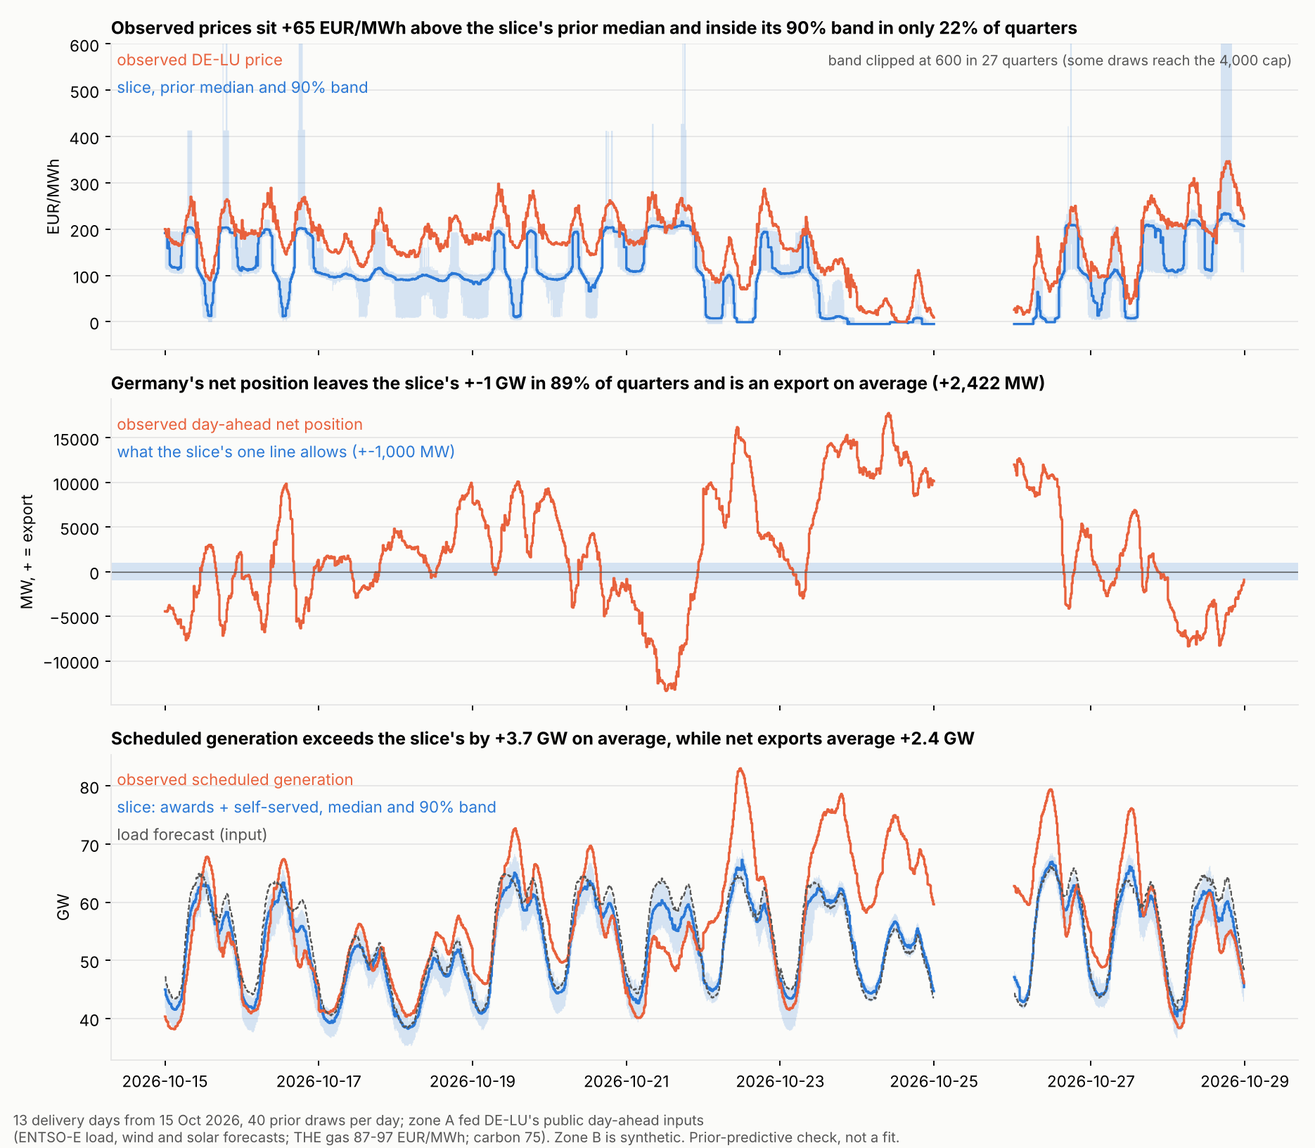
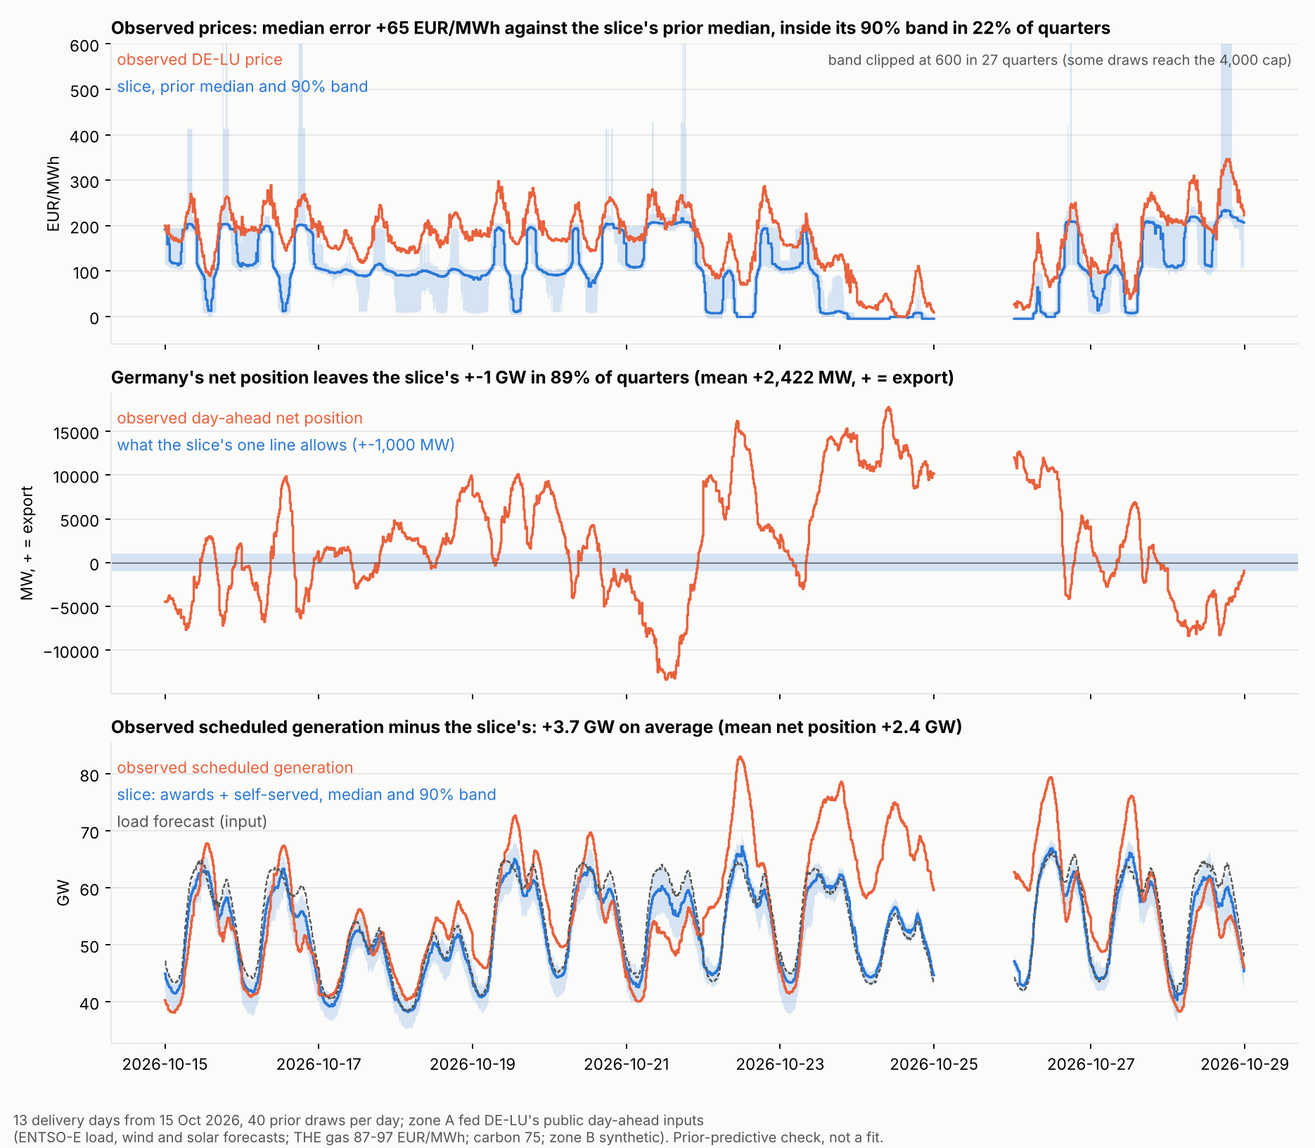
Research: zone A from data before the window, conditional on the observed net position; two windows
Fixing Germany's net position removes the false scarcity and the public quantities reconcile (generation =
load + net position within 0.5 GW). With the fleet from unit data and real carbon prices, October improves
(inside the band 55%, 77% with an output-based fleet chosen on it); June, the out-of-window test, sits at
48% with a level error of +8 to +12 and a wrong daily shape (flat evenings, too high at midday).

Claude-Session: https://claude.ai/code/session_01GE4eU3GGTHse8pJmFKF6AB

diff --git a/research/coupled-auction/hist_window.py b/research/coupled-auction/hist_window.py
@@ -20,8 +20,34 @@ SP, OUT = Path(sys.argv[1]), Path(sys.argv[2]); DRAWS = int(os.environ.get("DRAW
 # coal cut towards what ran at most in the window (12.6 and 4.5 GW): 13 and 5 GW nominal (coal less the slice's 1 GW planned
 # outage = 4 GW) instead of 18 and 12; the output file names carry the tag
 ABLATE = [a for a in os.environ.get("ABLATE", "").split(",") if a]; TAG = ("_" + "_".join(ABLATE)) if ABLATE else ""
+# Data-based switches (notes 21.162), each opt-in and named in the output tag:
+#   FLEET=<de_fleet.py json>  zone A's lignite, coal and gas from unit data before the window, "other" 10 GW (recon p99 9.9),
+#                             published outages per fuel and quarter, pumped storage 6.5 GW / 40 GWh
+#   COSTS=1                   carbon = last daily EUA before noon the day before; coal price drawn ~ lognormal(log 12, 0.25)
+#                             per draw (no coal series); flexible demand's willingness to pay scaled with the gas-fired cost
+#   COND=1                    conditional check: the line set to 0 and zone A's OBSERVED day-ahead net position entered as a
+#                             price-taking order (an auction outcome, not an issue-time input)
+FLEET = json.load(open(os.environ["FLEET"])) if os.environ.get("FLEET") else None
+COSTS, COND = os.environ.get("COSTS") == "1", os.environ.get("COND") == "1"
+TAG += ("_datafleet" if FLEET else "") + ("_costs" if COSTS else "") + ("_cond" if COND else "") + os.environ.get("SUFFIX", "")
+TECH = {z: dict(v) for z, v in V.TECH.items()}
 if "fleet" in ABLATE:
-    V.TECH["A"]["lignite"] = (13000,) + V.TECH["A"]["lignite"][1:]; V.TECH["A"]["coal"] = (5000,) + V.TECH["A"]["coal"][1:]
+    TECH["A"]["lignite"] = (13000,) + TECH["A"]["lignite"][1:]; TECH["A"]["coal"] = (5000,) + TECH["A"]["coal"][1:]
+# FLEETMODE=output (with FLEET): lignite, coal and "other" sized from their 99th percentile of hourly output in the 3 months
+# before the window (energy-charts by fuel, out/recon_hourly.parquet), divided by 0.84 = the prior's mean offered share x
+# (1 - forced outage share), so that their expected offer equals that percentile; their published outages are then not
+# subtracted again. Gas keeps the unit fleet: it is usually at the margin, so its output measures demand, not capacity.
+FLEETMODE = os.environ.get("FLEETMODE", "units")
+if FLEET:
+    for k in ("lignite", "coal", "gas"): TECH["A"][k] = (FLEET["fleet"][k]["fleet_MW"],) + TECH["A"][k][1:]
+    TECH["A"]["other"] = (10000.0,) + TECH["A"]["other"][1:]
+    if FLEETMODE == "output":
+        Xr = pd.read_parquet(SP / "out/recon_hourly.parquet"); f0 = pd.Timestamp(os.environ.get("FIRST", "2026-10-15"), tz="UTC")
+        W = Xr[(Xr.index >= f0 - pd.DateOffset(months=3)) & (Xr.index < f0)]
+        for k, col in (("lignite", "lig"), ("coal", "coal"), ("other", "other")): TECH["A"][k] = (float(W[col].quantile(0.99)) * 1000 / 0.84,) + TECH["A"][k][1:]
+        TAG += "_output"
+STORE = {z: dict(v) for z, v in V.STORAGE.items()}
+if FLEET: STORE["A"] = dict(P=6500.0, E=40000.0, soc0=20000.0, eta=0.75)
 DAYS = pd.date_range(os.environ.get("FIRST", "2026-10-15"), periods=int(os.environ.get("NDAYS", 14)), freq="D", tz=TZ)
 
 def series(name, col):
@@ -33,29 +59,38 @@ def store(name, key, scale=1.0):
 
 load, ws = series("load", "Forecasted Load"), pd.concat([pd.read_parquet(f) for f in sorted((SP / "entsoe/da").glob("ws_*.parquet"))])
 ws = ws[~ws.index.duplicated()]; netpos, gen = series("netpos", "netpos"), series("gen", "gen")
+eua = pd.read_parquet(SP / "out/eua_daily.parquet")["eua"].sort_index()
 price, gas = store("prices_v3_DE_LU", "price", 10.0), store("gasprices_the_v1_DE_LU", "gasprice")      # stored in ct/kWh; THE gas in EUR/MWh
 
 def day_inputs(d):
     idx = pd.date_range(d, (d + pd.DateOffset(days=1)).normalize(), freq="15min", inclusive="left")   # a calendar day: 92 or 100 quarters at a clock change
     if len(idx) != V.T: return None, idx             # clock-change days have 92 or 100 quarters; the slice has 96
-    info = V.Info(); info.co2 = 75.0
+    info = V.Info(); info.co2 = 75.0; info.tech = TECH; info.storage = STORE
+    if FLEET:
+        o = FLEET["days"].get(str(d.date()))
+        info.outages = {"A": {k: np.asarray(v) for k, v in o.items() if FLEETMODE != "output" or k == "gas"} if o else {}, "B": {}}
+    if COSTS:
+        info.co2 = float(eua[:(d - pd.Timedelta(hours=12)).tz_localize(None)].iloc[-1]); info.wtp_scales_with_gas = True
+    if COND:
+        info.atc = 0.0; info.fixed_netpos = {"A": netpos.reindex(idx).to_numpy(float)}
     g = gas[:d - pd.Timedelta(hours=12)]; info.gas = float(g.iloc[-1])      # last stored value dated before noon the day before
     info.load = {"A": load.reindex(idx).to_numpy(float), "B": V.Info().load["B"]}
-    info.wind_cf = {"A": np.clip((ws["Wind Onshore"] + ws["Wind Offshore"]).reindex(idx).to_numpy(float) / V.TECH["A"]["wind"][0], 0, 1), "B": V.Info().wind_cf["B"]}
-    info.solar_cf = {"A": np.clip(ws["Solar"].reindex(idx).to_numpy(float) / V.TECH["A"]["solar"][0], 0, 1)}
+    info.wind_cf = {"A": np.clip((ws["Wind Onshore"] + ws["Wind Offshore"]).reindex(idx).to_numpy(float) / TECH["A"]["wind"][0], 0, 1), "B": V.Info().wind_cf["B"]}
+    info.solar_cf = {"A": np.clip(ws["Solar"].reindex(idx).to_numpy(float) / TECH["A"]["solar"][0], 0, 1)}
     return info, idx
 
 def run(args):
     k, d = args; info, idx = day_inputs(d)
     rng = np.random.default_rng(3_000_000 + k); th = V.draw_theta(rng); day = V.draw_day(rng, info)
     if "flex0" in ABLATE: th["flex_share"] = 0.0
+    if COSTS: info.coal_price = float(rng.lognormal(np.log(12.0), 0.25))
     try:
         m, acc, r = V.simulate(th, day, info)
     except Exception as e:
         return k, d, None
     sold = np.zeros(V.T)
     for j, o in enumerate(m.orders):
-        if o.zone == "A" and o.side == "sell": sold[o.t] += r.x[j] * o.q
+        if o.zone == "A" and o.side == "sell" and o.p > -499: sold[o.t] += r.x[j] * o.q     # not the fixed imports (COND)
     for b_, blk in enumerate(m.blocks):
         if blk.zone == "A": sold += r.a[b_] * np.array(blk.q)
     gen_a = sold + acc["A"]["netted"]                    # scheduled generation: auction awards plus what portfolios serve themselves
@@ -87,4 +122,9 @@ if __name__ == "__main__":
             "obs_netpos_range": [round(float(R.obs_netpos.min())), round(float(R.obs_netpos.max()))],
             "gen_inside_90": round(float(ginside.mean()), 3), "gen_bias_median_MW": round(float((R.obs_gen - R.gen_p50).mean())),
             "obs_gen_mean": round(float(R.obs_gen.mean())), "load_mean": round(float(R.load.mean())), "gas_range": [round(float(R.gas.min()), 1), round(float(R.gas.max()), 1)]}
-    summ["ablate"] = ABLATE; json.dump(summ, open(OUT / f"hist_window{TAG}.json", "w"), indent=1); print(json.dumps(summ, indent=1))
+    summ["ablate"] = ABLATE; summ["switches"] = dict(fleet=bool(FLEET), costs=COSTS, cond=COND)
+    summ["median_error"] = round(float((R.obs_price - R.p50).median()), 1); summ["scarcity_share"] = round(float((R.p50 >= 500).mean()), 3)
+    hh = R.index.tz_convert(TZ).hour; summ["median_error_by_4h"] = {f"{a:02d}-{a + 4:02d}": round(float((R.obs_price - R.p50)[(hh >= a) & (hh < a + 4)].median()), 1) for a in range(0, 24, 4)}
+    summ["gen_residual_vs_load_plus_netpos_MW"] = round(float((R.obs_gen - (R.load + R.obs_netpos)).mean()))
+    summ["slice_gen_minus_load_plus_netpos_MW"] = round(float((R.gen_p50 - (R.load + R.obs_netpos)).mean()))
+    json.dump(summ, open(OUT / f"hist_window{TAG}.json", "w"), indent=1); print(json.dumps(summ, indent=1))

diff --git a/research/coupled-auction/vslice.py b/research/coupled-auction/vslice.py
@@ -38,6 +38,19 @@ class Info:
     load: dict = field(default_factory=lambda: {"A": 52000 + 12000 * np.exp(-((HOURS - 12) / 4.5) ** 2) + 5000 * np.exp(-((HOURS - 19) / 2) ** 2) - 8000 * np.exp(-((HOURS - 3.5) / 2.5) ** 2),
                                                 "B": 7000 + 1500 * np.exp(-((HOURS - 18.5) / 2.5) ** 2)})
     outages: dict = field(default_factory=lambda: {"A": {"coal": 1000.0}, "B": {"nuclear": 0.0}})
+    tech: dict | None = None               # technology table per zone; None = TECH
+    coal_price: float | None = None        # EUR/MWh thermal; None = COAL_PRICE
+    # zone -> MW per quarter, exogenous net position (+ export) entered as a price-taking order: buy at the cap for an
+    # export, sell at the floor for an import (notes 21.162: a conditional check with the observed net position)
+    fixed_netpos: dict | None = None
+    storage: dict | None = None            # storage per zone; None = STORAGE
+    # flexible demand's willingness to pay scaled with the gas-fired cost (opt-in, notes 21.162): flex_wtp is read as the
+    # value at the reference costs (gas 40, carbon 75) and multiplied by today's gas-fired cost over the reference one
+    wtp_scales_with_gas: bool = False
+
+
+def techs(info):
+    return info.tech if info is not None and info.tech is not None else TECH
 
 
 PRIORS = {  # theta, shared across days
@@ -77,13 +90,13 @@ def draw_day(rng, info: Info, theta=None):
     return {"load_level": {z: rng.normal(0, 0.02) for z in info.load},                        # retailers' load expectation error
             "wind_err": {z: ar1(0.04) for z in info.wind_cf},                                  # bidders' wind view against the issue-time forecast
             "solar_err": {z: rng.normal(0, 0.05) for z in info.solar_cf},                      # cloudiness of the day
-            "forced": {z: {k: rng.beta(*fb) for k in TECH[z] if len(TECH[z][k]) > 1} for z in TECH},  # forced outage share
+            "forced": {z: {k: rng.beta(*fb) for k in techs(info)[z] if len(techs(info)[z][k]) > 1} for z in techs(info)},  # forced outage share
             "markup_day": rng.normal(0, 1.0)}
 
 
 def cost(z, k, info):
-    C, hr, ef, oc, sc = TECH[z][k]
-    fuel = info.gas if k == "gas" else (COAL_PRICE if k == "coal" else 0.0)
+    C, hr, ef, oc, sc = techs(info)[z][k]
+    fuel = info.gas if k == "gas" else ((COAL_PRICE if info.coal_price is None else info.coal_price) if k == "coal" else 0.0)
     return hr * fuel + ef * info.co2 + oc
 
 
@@ -93,14 +106,15 @@ def build_book(theta, day, info: Info, storage=True, expected_prices=None):
     forecast; if None, storage is left out (used to make that forecast from the rest of the book).
     """
     orders, blocks, acc = [], [], {}
-    for z in TECH:
+    TECH_ = techs(info); STORAGE_ = info.storage if info.storage is not None else STORAGE
+    for z in TECH_:
         load = info.load[z] * (1 + day["load_level"][z])
         netted = theta["netting"] * load                                      # load served inside portfolios
         avail, split, steps = {}, {}, []                                      # steps: [tech, t, q, p] period offers before netting
-        for k, spec in TECH[z].items():
+        for k, spec in TECH_[z].items():
             if k == "wind": avail[k] = spec[0] * np.clip(info.wind_cf[z] + day["wind_err"][z], 0, 1)
             elif k == "solar": avail[k] = spec[0] * np.clip(info.solar_cf[z] * (1 + day["solar_err"][z]), 0, 1)
-            else: avail[k] = np.full(T, (spec[0] - info.outages.get(z, {}).get(k, 0.0)) * (1 - day["forced"][z][k]))
+            else: avail[k] = np.zeros(T) + np.maximum(spec[0] - np.asarray(info.outages.get(z, {}).get(k, 0.0)), 0.0) * (1 - day["forced"][z][k])
             # withholding and blocks apply to AVAILABLE capacity, before any netting (so netting cannot change them)
             if k in ("wind", "solar"):
                 offered, blk = avail[k], np.zeros(T)
@@ -113,7 +127,7 @@ def build_book(theta, day, info: Info, storage=True, expected_prices=None):
                 for t in range(T): steps.append([k, t, float(offered[t]), -5.0 if k == "wind" else -1.0])
                 continue
             c = cost(z, k, info) + theta["markup"] + day["markup_day"]
-            if k == "hydro": c = 0.8 * cost(z, "gas", info) if "gas" in TECH[z] else 50.0
+            if k == "hydro": c = 0.8 * cost(z, "gas", info) if "gas" in TECH_[z] else 50.0
             ladder = [(0.0, 0.5), (0.6, 0.5)] if k == "hydro" else [(-0.1, 0.3), (0.0, 0.4), (0.15, 0.3)]
             for t in range(T):
                 q = offered[t] - blk[t]
@@ -137,11 +151,18 @@ def build_book(theta, day, info: Info, storage=True, expected_prices=None):
         # buy side: price-taking load less netting, flexible demand
         for t in range(T):
             orders.append(Order(z, t, "buy", float(load[t] - netted[t] - theta["flex_share"] * load[t]), 4000.0))
+            wtp = theta["flex_wtp"] * ((1.9 * info.gas + 0.37 * info.co2 + 4.0) / (1.9 * 40.0 + 0.37 * 75.0 + 4.0) if info.wtp_scales_with_gas else 1.0)
             for dz, share in ((-0.3, 0.3), (0.0, 0.4), (0.3, 0.3)):
-                orders.append(Order(z, t, "buy", float(theta["flex_share"] * load[t] * share), float(theta["flex_wtp"] * (1 + dz))))
+                orders.append(Order(z, t, "buy", float(theta["flex_share"] * load[t] * share), float(wtp * (1 + dz))))
+        # exogenous net position (conditional checks only): an export is extra price-taking demand, an import extra
+        # price-taking supply at the floor; neither scales with load, so netting and flexible demand do not touch it
+        if info.fixed_netpos is not None and z in info.fixed_netpos:
+            for t, v in enumerate(info.fixed_netpos[z]):
+                if v > 1e-6: orders.append(Order(z, t, "buy", float(v), 4000.0))
+                elif v < -1e-6: orders.append(Order(z, t, "sell", float(-v), -500.0))
         # storage: inventory-safe bids from the owners' price forecast
         if storage and expected_prices is not None:
-            st = STORAGE[z]; ep = expected_prices[z]
+            st = STORAGE_[z]; ep = expected_prices[z]
             n_dis = int(st["soc0"] / (st["P"] * DT))                     # discharge offered never exceeds the opening inventory
             n_chg = int((st["E"] - st["soc0"]) / (st["eta"] * st["P"] * DT))  # charging offered never exceeds the free space
             dis = np.argsort(-ep)[:n_dis]; chg = np.argsort(ep)[:n_chg]

diff --git a/research/coupled-auction/hist_fig.py b/research/coupled-auction/hist_fig.py
@@ -1,10 +1,11 @@
-"""Figure of the historical prior-predictive check (hist_window.py output). Usage: hist_fig.py DIR -> DIR/hist_window.png"""
+"""Figure of the historical prior-predictive check (hist_window.py output). Usage: hist_fig.py DIR [TAG] -> DIR/hist_window[TAG].png"""
 import json, sys
 from pathlib import Path
 import numpy as np, pandas as pd
 import matplotlib; matplotlib.use("Agg"); import matplotlib.pyplot as plt
 
-D = Path(sys.argv[1]); R = pd.read_parquet(D / "hist_window.parquet").tz_convert("Europe/Berlin"); S = json.load(open(D / "hist_window.json"))
+D = Path(sys.argv[1]); TAG = sys.argv[2] if len(sys.argv) > 2 else ""
+R = pd.read_parquet(D / f"hist_window{TAG}.parquet").tz_convert("Europe/Berlin"); S = json.load(open(D / f"hist_window{TAG}.json"))
 R = R.reindex(pd.date_range(R.index.min(), R.index.max(), freq="15min"))      # the skipped clock-change day stays a gap
 cap = int((R.p95 > 600).sum())
 BLUE, ORANGE, INK2, GRID, BG = "#2a78d6", "#e8613c", "#555555", "#e6e6e6", "#fbfbf9"
@@ -15,21 +16,31 @@ a = ax[0]; a.fill_between(x, R.p05, R.p95, step="post", color=BLUE, alpha=0.18, 
 a.step(x, R.obs_price, where="post", color=ORANGE, lw=1.4); a.set_ylabel("EUR/MWh"); a.set_ylim(-60, 600)
 a.text(0.995, 0.93, f"band clipped at 600 in {cap} quarters (some draws reach the 4,000 cap)", color=INK2, transform=a.transAxes, ha="right", fontsize=8.5)
 a.text(0.005, 0.93, "observed DE-LU price", color=ORANGE, transform=a.transAxes); a.text(0.005, 0.84, "slice, prior median and 90% band", color=BLUE, transform=a.transAxes)
-a.set_title(f"Observed prices sit {S['price_bias_median']:+.0f} EUR/MWh above the slice's prior median and inside its 90% band in only "
-            f"{S['price_inside_90']:.0%} of quarters", loc="left", fontweight="bold", fontsize=10.5)
-a = ax[1]; a.axhspan(-1000, 1000, color=BLUE, alpha=0.18, lw=0); a.step(x, R.obs_netpos, where="post", color=ORANGE, lw=1.4); a.axhline(0, color=INK2, lw=0.6)
+a.set_title(f"Observed prices: median error {S.get('median_error', S['price_bias_median']):+.0f} EUR/MWh against the slice's prior median, "
+            f"inside its 90% band in {S['price_inside_90']:.0%} of quarters", loc="left", fontweight="bold", fontsize=10.5)
+SW = S.get("switches", {})
+a = ax[1]
+if not SW.get("cond"): a.axhspan(-1000, 1000, color=BLUE, alpha=0.18, lw=0)
+a.step(x, R.obs_netpos, where="post", color=ORANGE, lw=1.4); a.axhline(0, color=INK2, lw=0.6)
 a.set_ylabel("MW, + = export"); a.text(0.005, 0.9, "observed day-ahead net position", color=ORANGE, transform=a.transAxes)
-a.text(0.005, 0.81, "what the slice's one line allows (+-1,000 MW)", color=BLUE, transform=a.transAxes)
-a.set_title(f"Germany's net position leaves the slice's +-1 GW in {S['obs_netpos_abs_over_1000']:.0%} of quarters and is an export on average "
-            f"({S['obs_netpos_mean']:+,} MW)", loc="left", fontweight="bold", fontsize=10.5)
+a.text(0.005, 0.81, "line set to 0; net position entered as a price-taking order" if S.get("switches", {}).get("cond") else "what the slice's one line allows (+-1,000 MW)", color=BLUE, transform=a.transAxes)
+COND = S.get("switches", {}).get("cond", False); np_mean = S["obs_netpos_mean"]
+if COND:
+    a.set_title(f"Conditional run: the observed net position is fed in as given (mean {np_mean:+,} MW, + = export)", loc="left", fontweight="bold", fontsize=10.5)
+else:
+    a.set_title(f"Germany's net position leaves the slice's +-1 GW in {S['obs_netpos_abs_over_1000']:.0%} of quarters "
+                f"(mean {np_mean:+,} MW, + = export)", loc="left", fontweight="bold", fontsize=10.5)
 a = ax[2]; a.fill_between(x, R.gen_p05 / 1000, R.gen_p95 / 1000, step="post", color=BLUE, alpha=0.18, lw=0); a.step(x, R.gen_p50 / 1000, where="post", color=BLUE, lw=1.4)
 a.step(x, R.obs_gen / 1000, where="post", color=ORANGE, lw=1.4); a.step(x, R.load / 1000, where="post", color=INK2, lw=0.9, ls="--"); a.set_ylabel("GW")
 a.text(0.005, 0.9, "observed scheduled generation", color=ORANGE, transform=a.transAxes); a.text(0.005, 0.81, "slice: awards + self-served, median and 90% band", color=BLUE, transform=a.transAxes)
 a.text(0.005, 0.72, "load forecast (input)", color=INK2, transform=a.transAxes)
-a.set_title(f"Scheduled generation exceeds the slice's by {S['gen_bias_median_MW'] / 1000:+.1f} GW on average, while net exports average {S['obs_netpos_mean'] / 1000:+.1f} GW",
+a.set_title(f"Observed scheduled generation minus the slice's: {S['gen_bias_median_MW'] / 1000:+.1f} GW on average (mean net position {S['obs_netpos_mean'] / 1000:+.1f} GW)",
             loc="left", fontweight="bold", fontsize=10.5)
 for a in ax: a.grid(axis="y", color=GRID, lw=0.8); a.set_axisbelow(True)
 fig.text(0.01, 0.005, f"{S['days']} delivery days from {x.min():%d %b %Y}, {S['draws_per_day']} prior draws per day; zone A fed DE-LU's public day-ahead inputs "
-         f"\n(ENTSO-E load, wind and solar forecasts; THE gas {S['gas_range'][0]:.0f}-{S['gas_range'][1]:.0f} EUR/MWh; carbon 75). Zone B is synthetic. Prior-predictive check, not a fit.",
+         f"\n(ENTSO-E load, wind and solar forecasts; THE gas {S['gas_range'][0]:.0f}-{S['gas_range'][1]:.0f} EUR/MWh; "
+         + ("carbon from the daily EUA series, coal price prior" if SW.get("costs") else "carbon 75")
+         + ("\nfleet from data before the window" if SW.get("fleet") else "")
+         + ("; observed net position given" if SW.get("cond") else "; zone B synthetic") + "). Prior-predictive check, not a fit.",
          fontsize=8.5, color=INK2)
-fig.tight_layout(rect=(0, 0.035, 1, 1)); fig.savefig(D / "hist_window.png", dpi=170)
+fig.tight_layout(rect=(0, 0.05, 1, 1)); fig.savefig(D / f"hist_window{TAG}.png", dpi=170)

diff --git a/research/coupled-auction/de_fleet.py b/research/coupled-auction/de_fleet.py
@@ -1,0 +1,59 @@
+"""
+Zone A's fleet from public data dated before the window (notes 21.162). Usage: de_fleet.py DATA_DIR FIRST LAST OUT.json
+- Market fleet per fuel: each unit's largest hourly output in the 12 months before FIRST (ENTSO-E actual generation per
+  unit, units of 100 MW and more), summed over units that produced more than 50 MW at least once. Gas is scaled up by the
+  units' share of total gas output (the small units are missing from the unit data).
+- Published unavailability per fuel and quarter of each delivery day (ENTSO-E generation-unit unavailability): only
+  documents created before noon the day before, the latest revision of each document, cancelled ones dropped, and per
+  unit the largest unavailability among overlapping documents (no double counting). Counted only for units in the
+  market fleet (matched by EIC code via the unit data's names is not possible, so by unit name; unmatched units listed).
+"""
+import json, glob, re, sys
+from pathlib import Path
+import numpy as np, pandas as pd
+
+SP, FIRST, LAST, OUT = Path(sys.argv[1]), pd.Timestamp(sys.argv[2], tz="Europe/Berlin"), pd.Timestamp(sys.argv[3], tz="Europe/Berlin"), Path(sys.argv[4])
+X = pd.read_parquet(SP / "out/recon_hourly.parquet")
+lo, hi = (FIRST - pd.DateOffset(months=12)).strftime("%Y-%m"), (FIRST - pd.DateOffset(months=1)).strftime("%Y-%m")
+FUELS = {"lignite": ("lig", "Fossil Brown coal/Lignite"), "coal": ("coal", "Fossil Hard coal"), "gas": ("gasg", "Fossil Gas")}
+norm = lambda s: re.sub(r"[^a-z0-9]", "", s.lower())
+fleet, names = {}, {}
+for fuel, (col, _) in FUELS.items():
+    frames = []
+    for f in sorted(glob.glob(str(SP / f"entsoe/units_all/DE_*_{fuel}_*.parquet"))):
+        m = re.search(r"_(\d{4}-\d{2})\.parquet", f).group(1)
+        if lo <= m <= hi:
+            d = pd.read_parquet(f); d.columns = [c.split(" | ")[0] for c in d.columns]; frames.append(d)
+    U = pd.concat(frames, axis=1); U = U.T.groupby(level=0).max().T; U = U.groupby(U.index).max()
+    umax = U.max(); act = umax[umax > 50]
+    tot = U[act.index].sum(axis=1, min_count=1).dropna(); tot.index = tot.index.tz_convert("UTC")
+    r = X[col].reindex(tot.index); ok = r.notna()
+    share = float((tot[ok] / 1000).sum() / r[ok].sum())
+    fleet[fuel] = dict(units=int(len(act)), unit_MW=float(act.sum()), coverage=round(share, 3), fleet_MW=float(act.sum() / (share if fuel == "gas" else 1.0)))
+    names[fuel] = {norm(n): float(v) for n, v in act.items()}
+
+O = pd.read_parquet(SP / "entsoe/unavail_gen_DE_LU.parquet").reset_index()
+O = O[O.plant_type.isin([v[1] for v in FUELS.values()])]
+days = pd.date_range(FIRST, LAST, freq="D"); out = {"fleet": fleet, "days": {}, "unmatched": {}}
+for d in days:
+    gate = (d - pd.Timedelta(days=1)).normalize() + pd.Timedelta(hours=12)
+    idx = pd.date_range(d, (d + pd.DateOffset(days=1)).normalize(), freq="15min", inclusive="left")
+    o = O[O.created_doc_time < gate].sort_values(["mrid", "revision", "created_doc_time"]).groupby("mrid").tail(1)
+    o = o[(o.docstatus != "Cancelled") & (o.start < idx[-1] + pd.Timedelta(minutes=15)) & (o.end > idx[0])]
+    day = {}
+    for fuel, (_, pt) in FUELS.items():
+        oo = o[o.plant_type == pt]; per_unit = {}
+        for _, row in oo.iterrows():
+            key = norm(str(row.production_resource_psr_name) or str(row.production_resource_name))
+            match = next((n for n in names[fuel] if n and (n in key or key in n)), None)
+            if match is None:
+                out["unmatched"].setdefault(fuel, set()).add(str(row.production_resource_psr_name)); continue
+            lost = np.where((idx >= row.start) & (idx < row.end), min(float(row.nominal_power) - float(row.avail_qty), names[fuel][match]), 0.0)
+            per_unit[match] = np.maximum(per_unit.get(match, 0.0), lost)
+        day[fuel] = (np.sum(list(per_unit.values()), axis=0) if per_unit else np.zeros(len(idx))).tolist()
+    out["days"][str(d.date())] = day
+out["unmatched"] = {k: sorted(v) for k, v in out["unmatched"].items()}
+json.dump(out, open(OUT, "w"))
+print(json.dumps(fleet, indent=1))
+for d, v in out["days"].items(): print(d, {k: round(float(np.mean(x)) / 1000, 2) for k, x in v.items()})
+print("unmatched outage units:", {k: len(v) for k, v in out["unmatched"].items()}, {k: v[:6] for k, v in out["unmatched"].items()})
